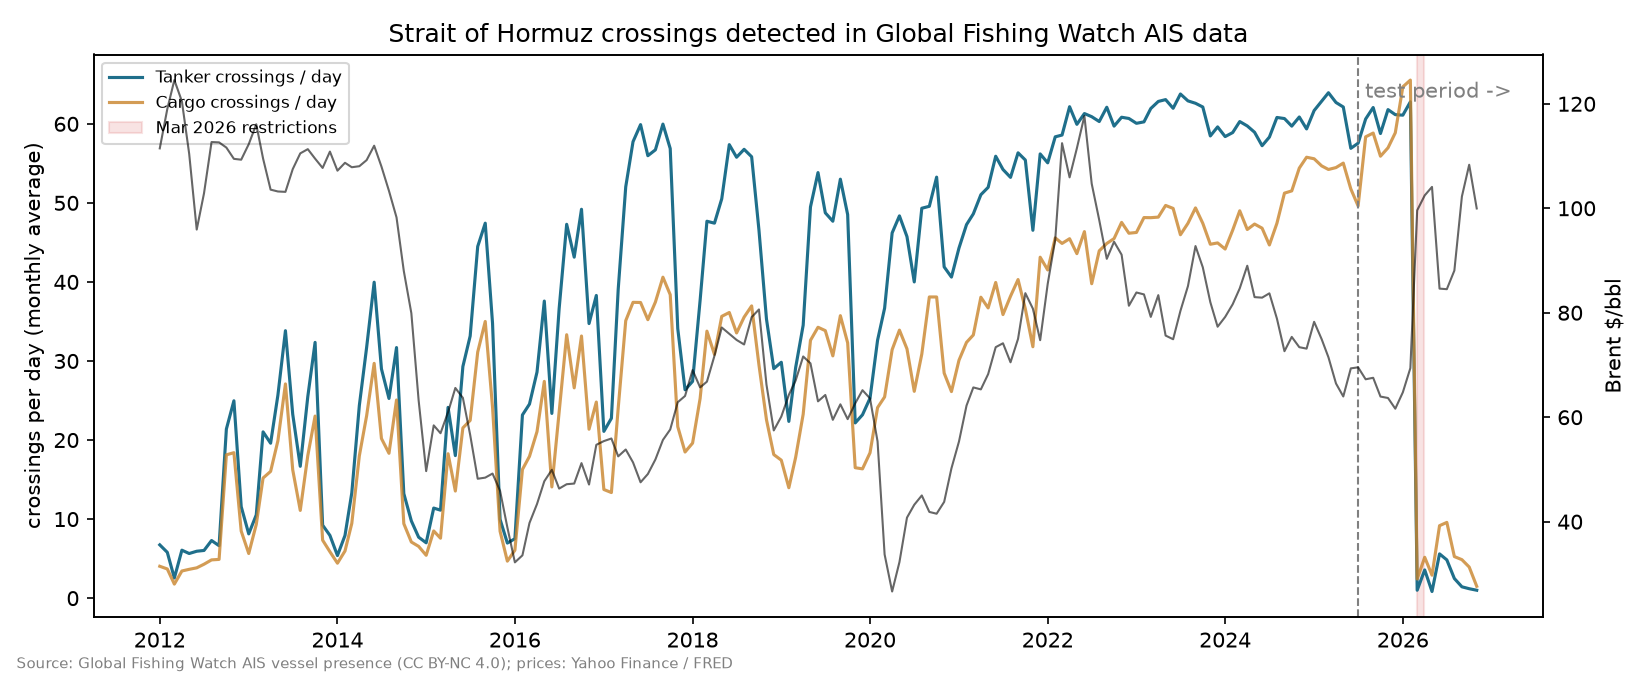
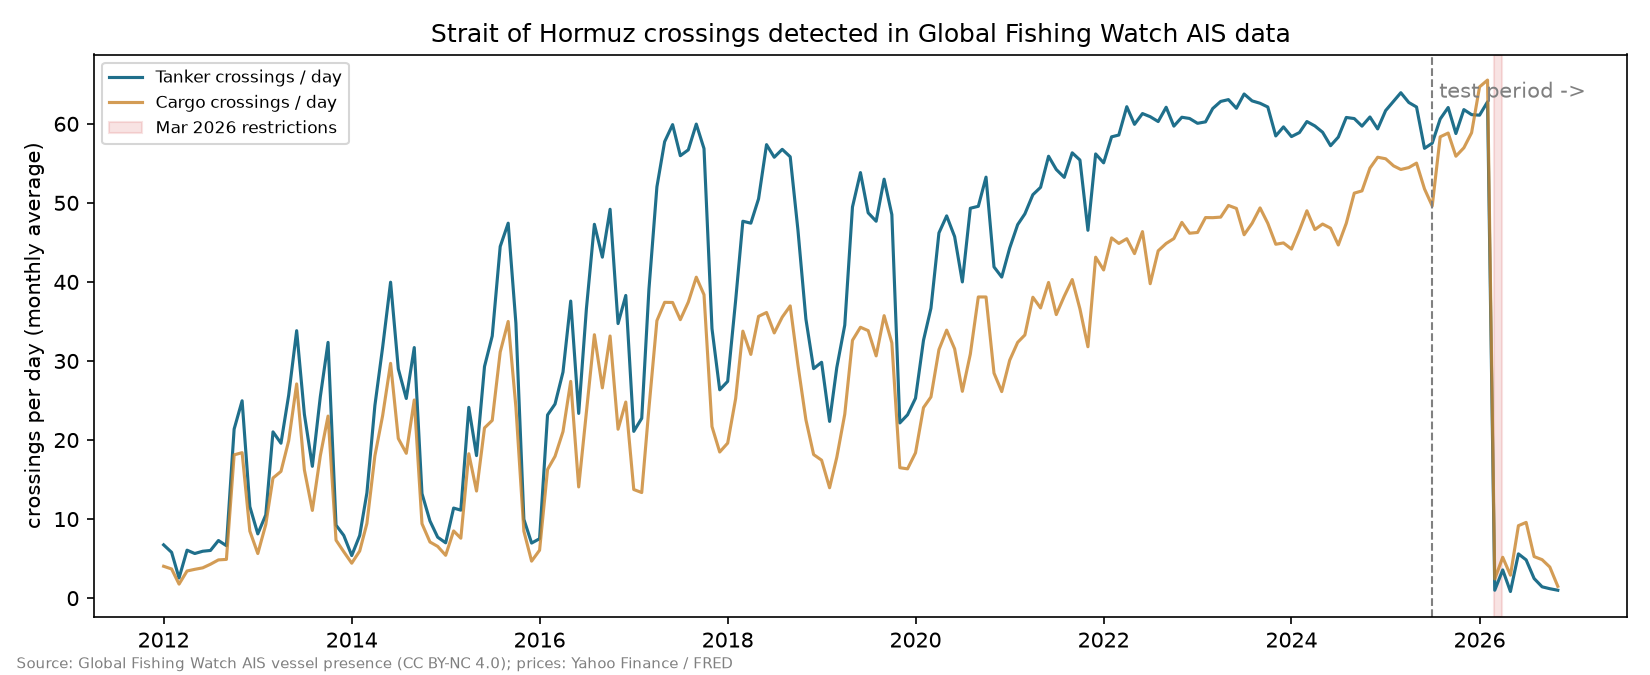
Add descriptive charts: crossings vs Brent, March 2026 closure zoom
Shared style module (reference dataviz palette); no dual-axis charts.

diff --git a/scripts/make_charts.py b/scripts/make_charts.py
@@ -1,0 +1,67 @@
+"""Descriptive charts: daily tanker crossings vs Brent (2022 -> latest) and a zoom on the March 2026 closure."""
+import sys
+from pathlib import Path
+
+import pandas as pd
+
+ROOT = Path(__file__).resolve().parents[1]
+sys.path.insert(0, str(ROOT / "src"))
+from hormuz.config import TEST_START  # noqa: E402
+from hormuz.data import SAMPLE_START, daily_crossings, main_prices  # noqa: E402
+from hormuz.plotstyle import (BRENT, CARGO, TANKER, TEXT_2, plt, shade_disruptions,  # noqa: E402
+                              source_note)
+
+FIG = ROOT / "figures"
+d = daily_crossings().loc[SAMPLE_START:]
+px = main_prices()["brent"].dropna().loc[SAMPLE_START:]
+
+# 1. Whole sample: two panels, shared time axis (never two y-scales on one panel)
+fig, (a1, a2) = plt.subplots(2, 1, figsize=(11, 6.2), sharex=True, gridspec_kw={"height_ratios": [1.15, 1]})
+for ax in (a1, a2):
+    shade_disruptions(ax)
+    ax.axvline(pd.Timestamp(TEST_START), color=TEXT_2, ls="--", lw=1)
+t7, c7 = d["tanker_total"].rolling(7).mean(), d["cargo_total"].rolling(7).mean()
+a1.plot(t7.index, t7, color=TANKER, label="Tankers")
+a1.plot(c7.index, c7, color=CARGO, label="Cargo ships", lw=1.5)
+a1.set_ylabel("crossings per day\n(7-day average)")
+a1.set_title("Strait of Hormuz crossings (top) and Brent crude price (bottom), 2022 to Nov 2026", loc="left")
+a1.legend(loc="lower left", ncol=2)
+a1.text(pd.Timestamp(TEST_START), a1.get_ylim()[1], "  test period", color=TEXT_2, va="top", fontsize=8)
+a1.annotate("March 2026\nrestrictions", xy=(pd.Timestamp("2026-03-10"), 5), xytext=(pd.Timestamp("2025-09-01"), 25),
+            fontsize=8, color=TEXT_2, arrowprops=dict(arrowstyle="-", color=TEXT_2, lw=0.8))
+a2.plot(px.index, px, color=BRENT, lw=1.2)
+a2.set_ylabel("Brent, $ per barrel")
+a2.text(pd.Timestamp("2024-04-14"), a2.get_ylim()[1], " Apr 2024", color=TEXT_2, va="top", fontsize=7)
+a2.text(pd.Timestamp("2025-06-14"), a2.get_ylim()[1], " Jun 2025", color=TEXT_2, va="top", fontsize=7)
+fig.text(0.99, 0.005, "Grey bands: disruption periods fixed in advance (HYPOTHESES.md).", fontsize=6.5, color=TEXT_2, ha="right", va="bottom")
+source_note(fig)
+fig.tight_layout(rect=(0, 0.02, 1, 1))
+fig.savefig(FIG / "crossings_vs_brent.png", dpi=170)
+
+# 2. Zoom on the closure: daily counts by direction + Brent
+z0, z1 = "2026-02-09", "2026-03-31"
+dz, pz = d.loc[z0:z1], px.loc[z0:z1]
+fig, (a1, a2) = plt.subplots(2, 1, figsize=(10, 5.6), sharex=True)
+for ax in (a1, a2):
+    ax.axvspan(pd.Timestamp("2026-02-28"), pd.Timestamp("2026-03-31"), color="#d9d7d0", alpha=0.8, lw=0, zorder=0)
+w = pd.Timedelta(hours=9)
+noon = dz.index + pd.Timedelta(hours=12)  # each UTC day's bars sit in the middle of that day
+a1.bar(noon - w / 2, dz["tanker_inbound"], width=w, color=TANKER, label="Tankers in (into the Gulf)")
+a1.bar(noon + w / 2, dz["tanker_outbound"], width=w, color="#9cc2ef", label="Tankers out (leaving the Gulf)")
+a1.set_ylabel("tanker crossings per day")
+a1.set_title("The closure, day by day: ships stopped over the weekend, before oil markets reopened", loc="left")
+a1.legend(loc="upper right")
+a1.annotate("Sat 28 Feb: closure\nannounced", xy=(pd.Timestamp("2026-02-28"), 30), xytext=(pd.Timestamp("2026-03-08"), 33),
+            fontsize=8, color=TEXT_2, arrowprops=dict(arrowstyle="-", color=TEXT_2, lw=0.8))
+close_t = pz.index + pd.Timedelta(hours=19, minutes=30)  # Brent settles ~19:30 London
+a2.plot(close_t, pz.values, color=BRENT, marker="o", ms=4, lw=1.4)
+a2.set_ylabel("Brent, $ per barrel\n(at daily close)")
+mon = pd.Timestamp("2026-03-02")
+a2.annotate("Mon 2 Mar: first\ntrading day after", xy=(mon + pd.Timedelta(hours=19.5), pz.loc[mon]), xytext=(pd.Timestamp("2026-02-10"), pz.max() * 0.95),
+            fontsize=8, color=TEXT_2, arrowprops=dict(arrowstyle="-", color=TEXT_2, lw=0.8))
+import matplotlib.dates as mdates  # noqa: E402
+a2.xaxis.set_major_formatter(mdates.DateFormatter("%-d %b"))
+source_note(fig)
+fig.tight_layout(rect=(0, 0.02, 1, 1))
+fig.savefig(FIG / "closure_zoom.png", dpi=170)
+print("saved figures/crossings_vs_brent.png and figures/closure_zoom.png")

diff --git a/src/hormuz/plotstyle.py b/src/hormuz/plotstyle.py
@@ -1,0 +1,40 @@
+"""One look for every figure (reference dataviz palette, light mode)."""
+import matplotlib
+
+matplotlib.use("Agg")
+import matplotlib.pyplot as plt  # noqa: E402
+
+SURFACE = "#fcfcfb"
+TEXT = "#0b0b0b"
+TEXT_2 = "#52514e"
+GRID = "#e4e3df"
+TANKER = "#2a78d6"   # categorical slot 1
+CARGO = "#eb6834"    # categorical slot 2
+THIRD = "#1baf7a"    # categorical slot 3
+BRENT = "#0b0b0b"    # single-series panels use ink, not a category colour
+EVENT = "#d9d7d0"    # neutral band for disruption periods
+SOURCE = ("Ships: Global Fishing Watch AIS vessel presence (CC BY-NC 4.0), powered by globalfishingwatch.org. "
+          "Prices: Yahoo Finance, FRED.")
+
+DISRUPTIONS = [("2024-04-13", "2024-04-30", "MSC Aries seizure"),
+               ("2025-06-13", "2025-06-24", "Israel–Iran war"),
+               ("2026-02-28", "2026-03-31", "March 2026 restrictions")]
+
+plt.rcParams.update({
+    "figure.facecolor": SURFACE, "axes.facecolor": SURFACE, "savefig.facecolor": SURFACE,
+    "axes.edgecolor": GRID, "axes.labelcolor": TEXT_2, "xtick.color": TEXT_2, "ytick.color": TEXT_2,
+    "axes.grid": True, "grid.color": GRID, "grid.linewidth": 0.6, "axes.axisbelow": True,
+    "axes.spines.top": False, "axes.spines.right": False, "lines.linewidth": 2,
+    "font.size": 9, "axes.titlesize": 11, "axes.titleweight": "bold", "axes.titlecolor": TEXT,
+    "legend.frameon": False, "legend.fontsize": 8,
+})
+
+
+def shade_disruptions(ax, label=False):
+    import pandas as pd
+    for start, end, name in DISRUPTIONS:
+        ax.axvspan(pd.Timestamp(start), pd.Timestamp(end), color=EVENT, alpha=0.8, lw=0, zorder=0)
+
+
+def source_note(fig, extra=""):
+    fig.text(0.01, 0.005, SOURCE + (" " + extra if extra else ""), fontsize=6.5, color=TEXT_2, ha="left", va="bottom")

diff --git a/feasibility/summarize.py b/feasibility/summarize.py
@@ -94,14 +94,6 @@ ax.plot(mon.index, mon["cargo_total"], label="Cargo crossings / day", color="#c9
 ax.axvspan(pd.Timestamp("2026-02-28"), pd.Timestamp("2026-03-31"), color="#d64545", alpha=0.15, label="Mar 2026 restrictions")
 ax.axvline(pd.Timestamp(TEST_START), color="grey", ls="--", lw=1)
 ax.text(pd.Timestamp(TEST_START), ax.get_ylim()[1] * 0.95, " test period ->", color="grey", va="top")
-try:
-    px = load_prices("yahoo") if (ROOT / "data/raw/prices/yahoo_brent.parquet").exists() else load_prices("fred")
-    ax2 = ax.twinx()
-    br = px["brent"].resample("MS").mean().loc[mon.index.min():]
-    ax2.plot(br.index, br, color="black", lw=1, alpha=0.6, label="Brent ($/bbl, right)")
-    ax2.set_ylabel("Brent $/bbl")
-except FileNotFoundError:
-    pass
 ax.set_ylabel("crossings per day (monthly average)")
 ax.set_title("Strait of Hormuz crossings detected in Global Fishing Watch AIS data")
 ax.legend(loc="upper left", fontsize=8)
